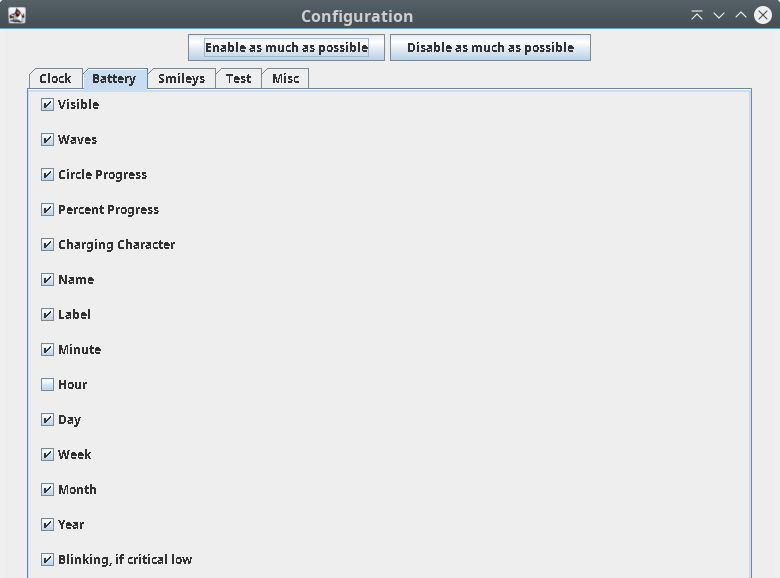
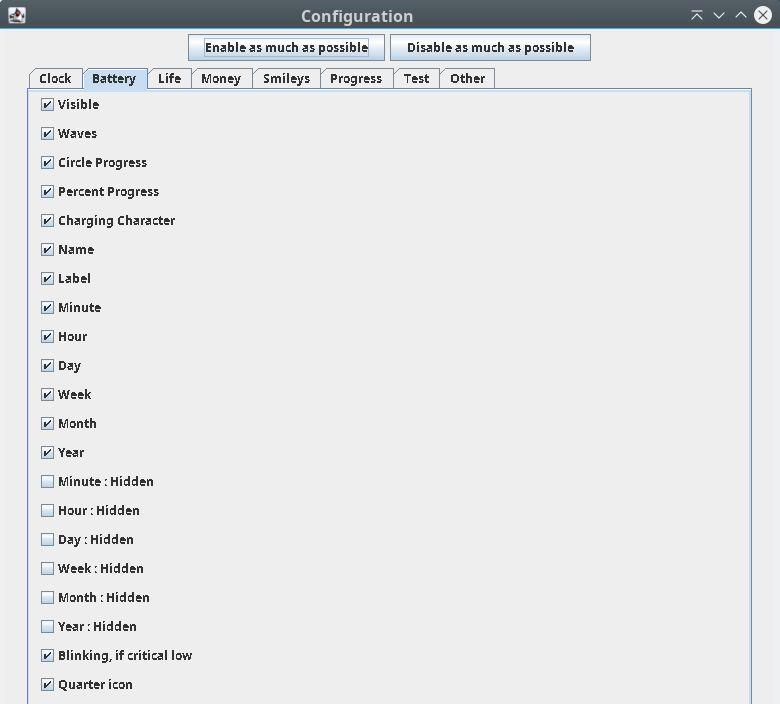
Updated screenshots

Changed region(s): [[0.0, 0.0, 1.0, 0.9965]]

diff --git a/Readme.md b/Readme.md
@@ -26,11 +26,17 @@ Time Calc is inspired by this document: [report.ods](https://code.nanoboot.org/n
 
 !["Config" window - battery](images/config_window_battery.jpg)
 
+!["Config" window - life](images/config_window_life.jpg)
+
+!["Config" window - money](images/config_window_money.jpg)
+
 !["Config" window - smileys](images/config_window_smileys.jpg)
+
+!["Config" window - progress](images/config_window_progress.jpg)
 
 !["Config" window - test](images/config_window_test.jpg)
 
-!["Config" window - misc](images/config_window_misc.jpg)
+!["Config" window - other](images/config_window_other.jpg)
 
 ## Usage
 
